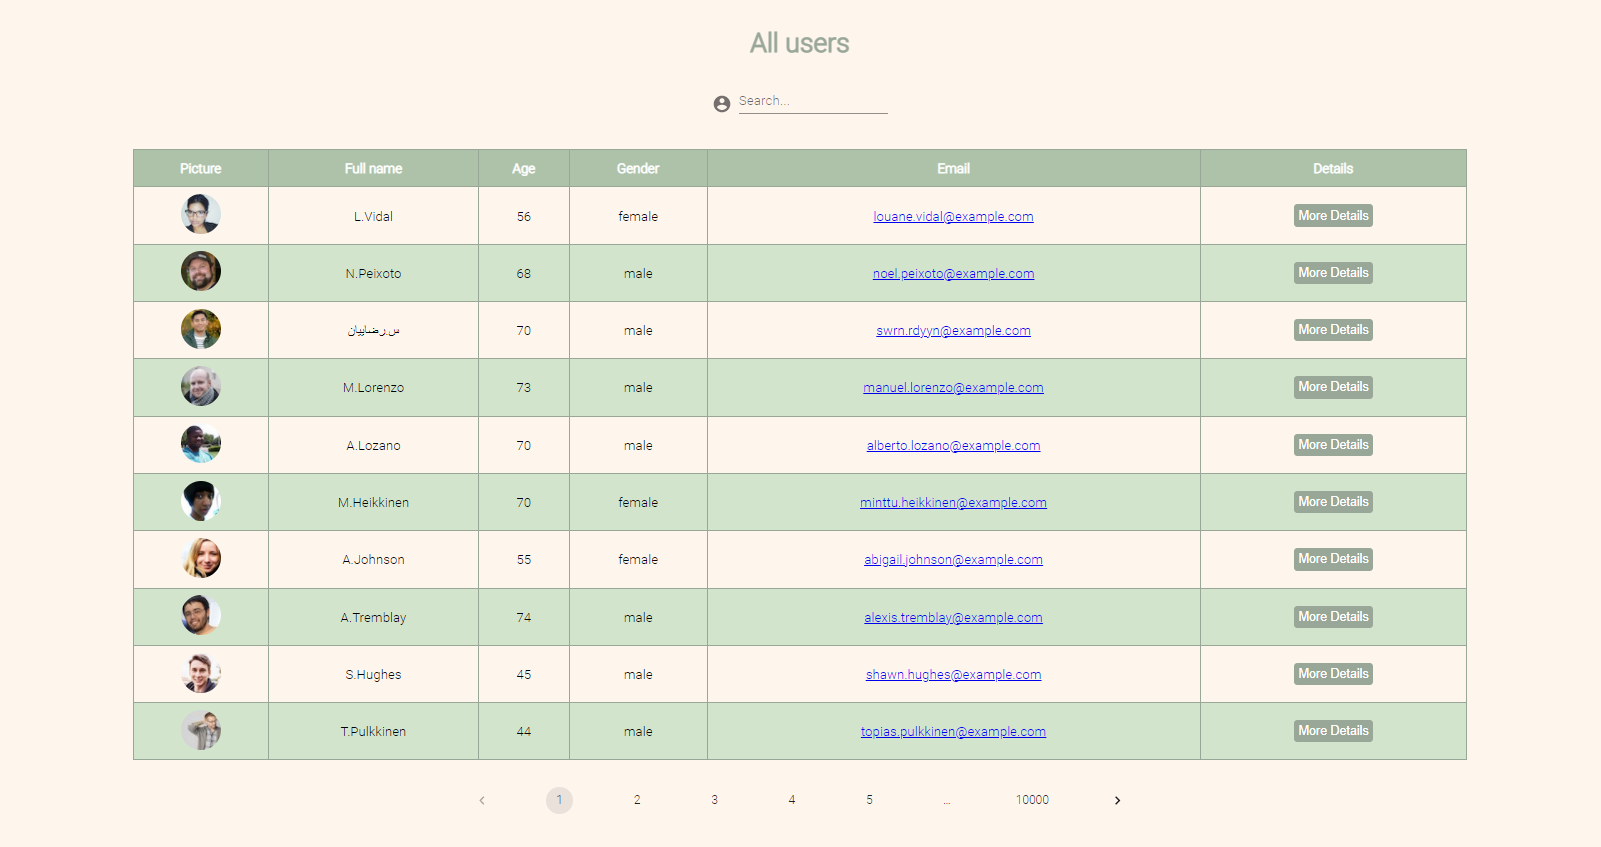
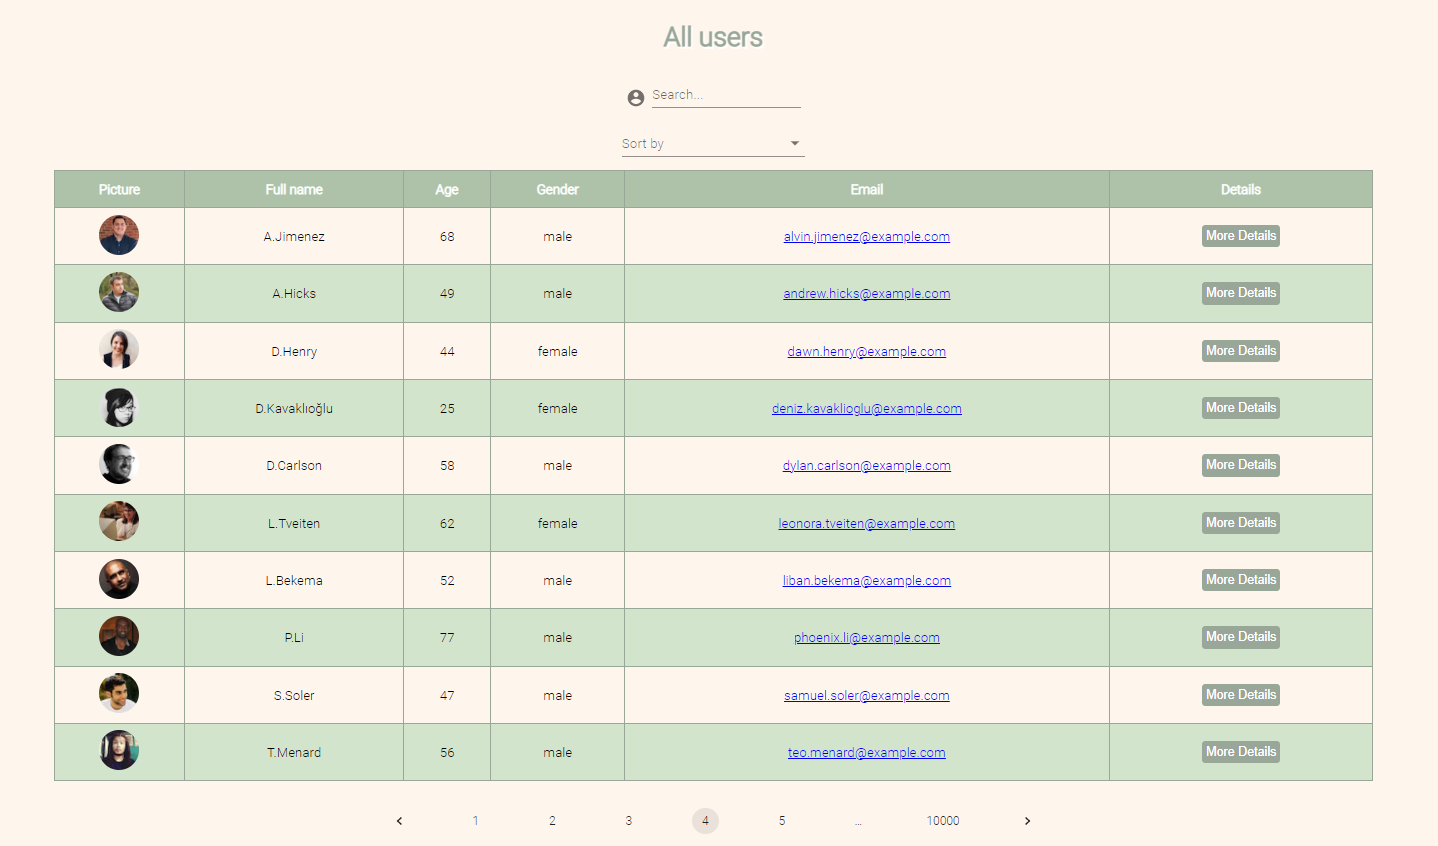
📝 update readme

diff --git a/README.md b/README.md
@@ -27,7 +27,8 @@ Display the data as a paginated list or user profile page.
   - **Gender** 👩🦰🧑
   - **Age** 👴👶
   - **Button to more details**
-  - **Search input** - **you can search by the following parameters : name, email, age** 🔍
+  - **Search input** - **you can search by the following parameters : name, email and age** 🔍
+  - **Sort button** - **you can sort by the following parameters : first name, last name and age** 🔬
 
 - **In the more details page you will see the following details:**
   - **The user address on a map with a pin** 🗺
